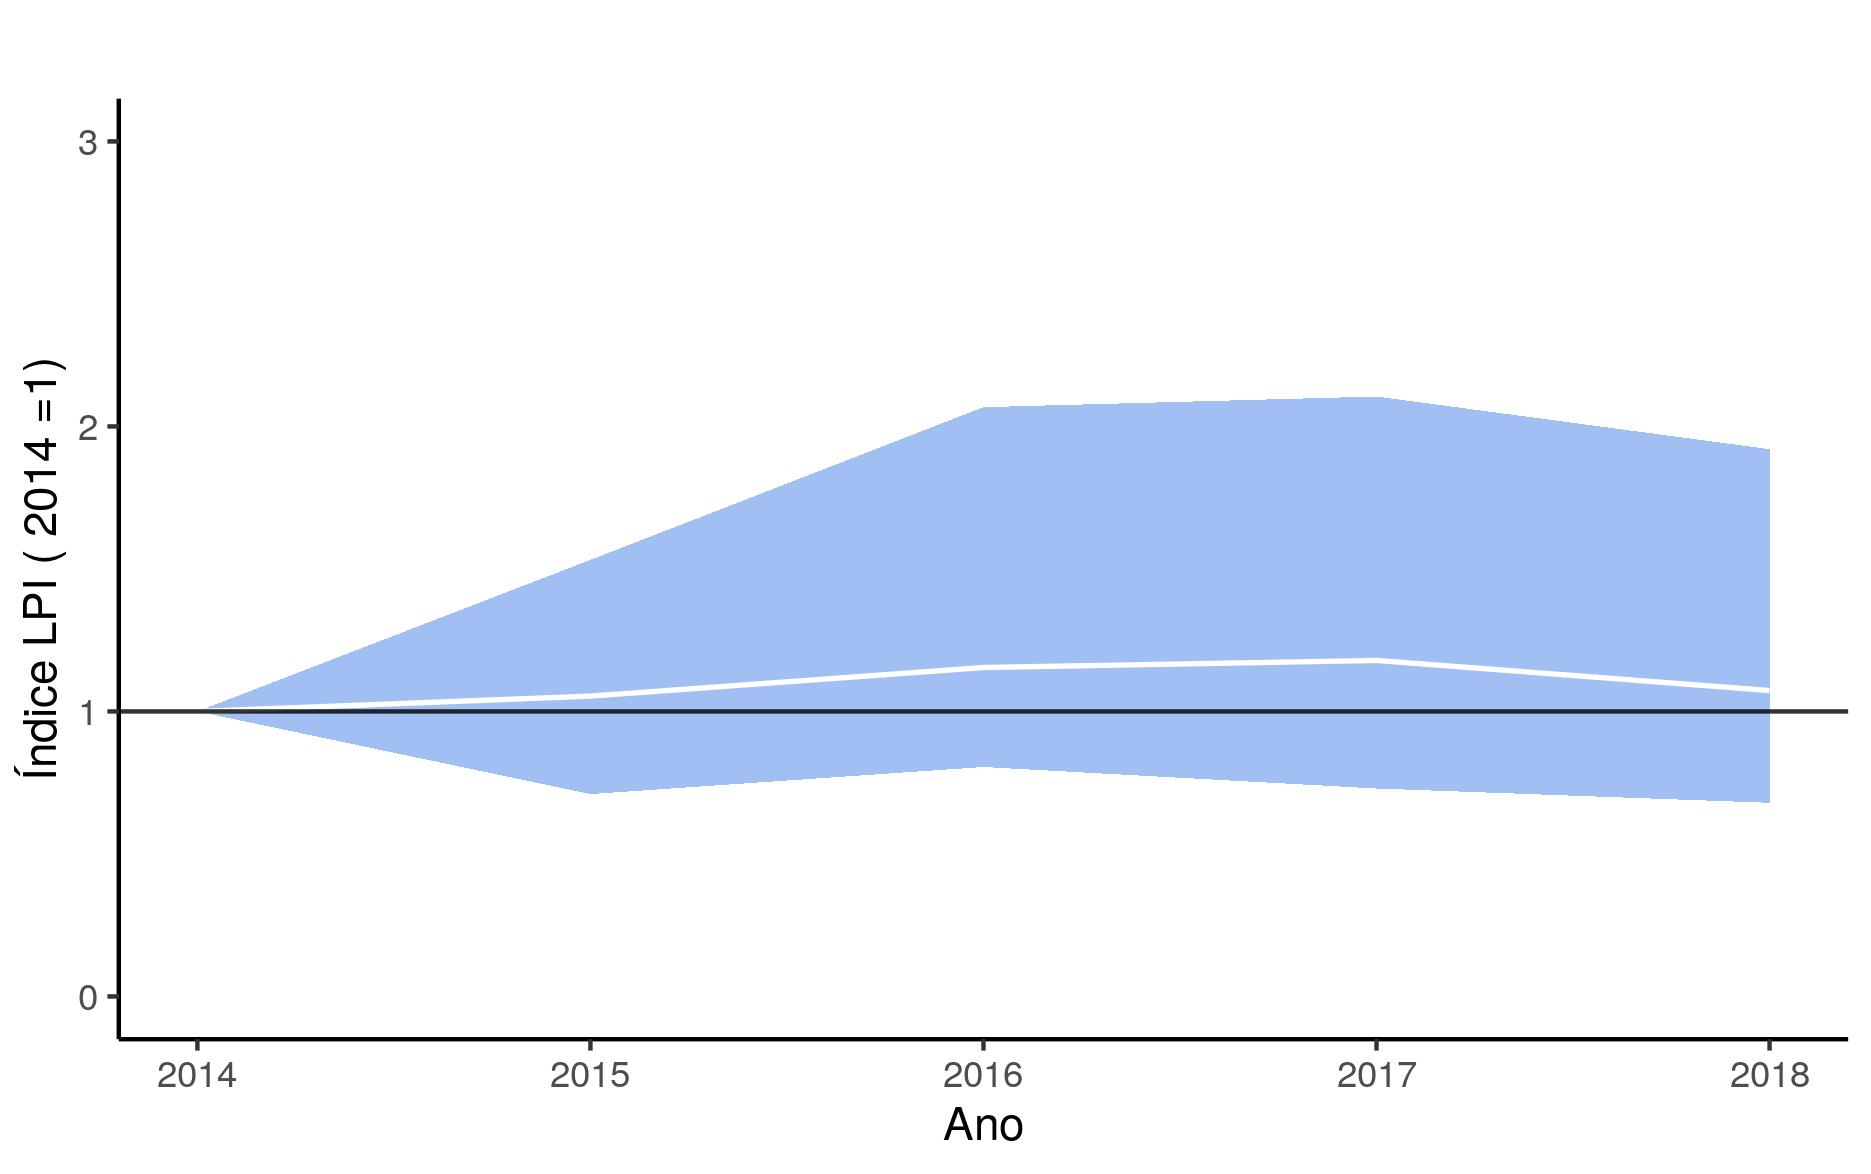
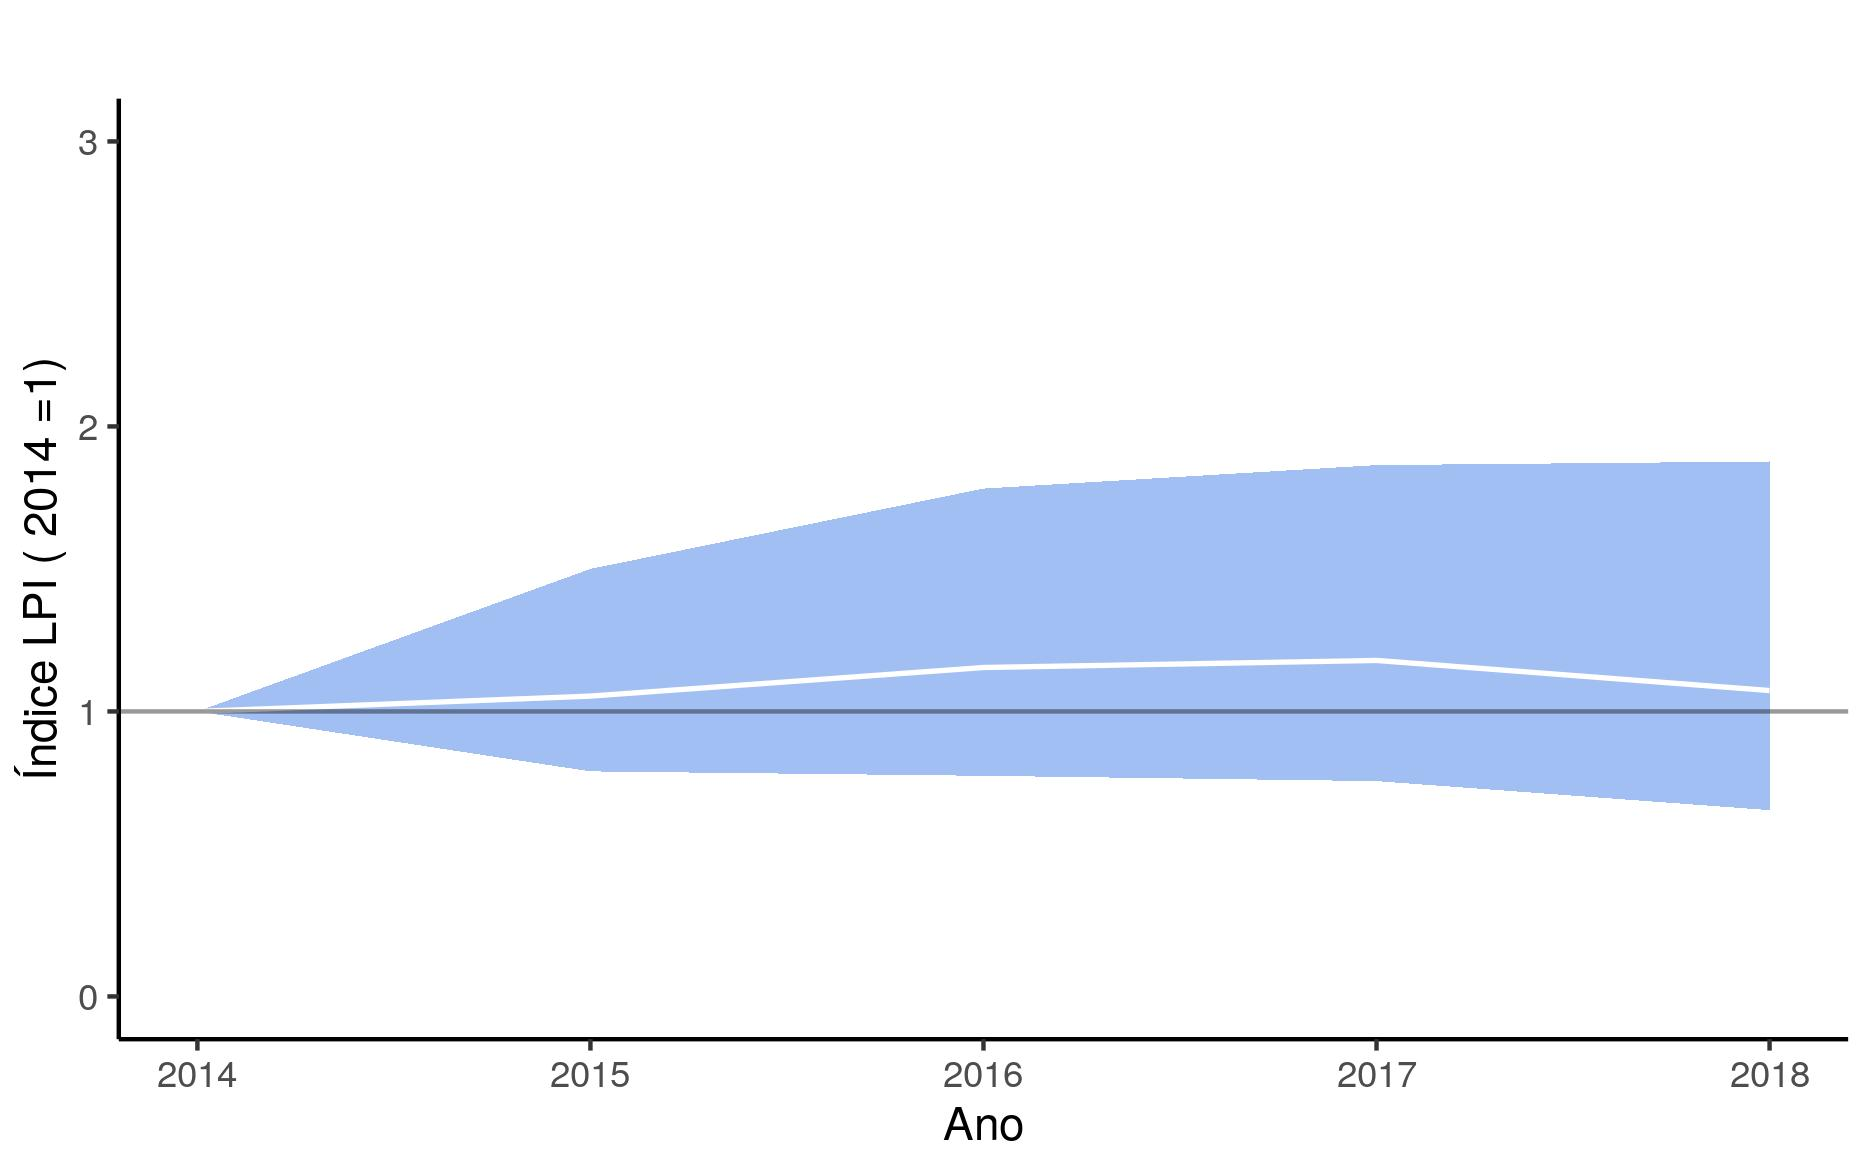
Updated a lott of stuff

diff --git a/README.md b/README.md
@@ -8,6 +8,10 @@ Cria subsets dos dados com UC e grupo taxonômico de interesse (e.g., mamíferos
 Calcula o **LPI (Living Planet Index)** a partir de dados do protocolo florestal básico (mamíferos e aves)
 
 
+<img src="results/lpi-aves-selecionadas.jpg" title="LPI Aves Global" width="500">
+
+Figura 1. LPI para as aves nas UCs monitoradas, 2014-2018.
+
 
 ### Descrição
 ```src``` Contém os códigos para as análises.
@@ -17,11 +21,6 @@ Calcula o **LPI (Living Planet Index)** a partir de dados do protocolo florestal
 ```bin``` Códigos e funções úteis que são chamadas pelos códigos principais.
 
 ```results``` Contém resultados das análises.
-
-
-<img src="results/lpi-spp-selecionadas.jpg" title="LPI Global" width="500">
-
-Figura 1. LPI Global para os dados do ICMBio, 2014-2018.
 
 
 
